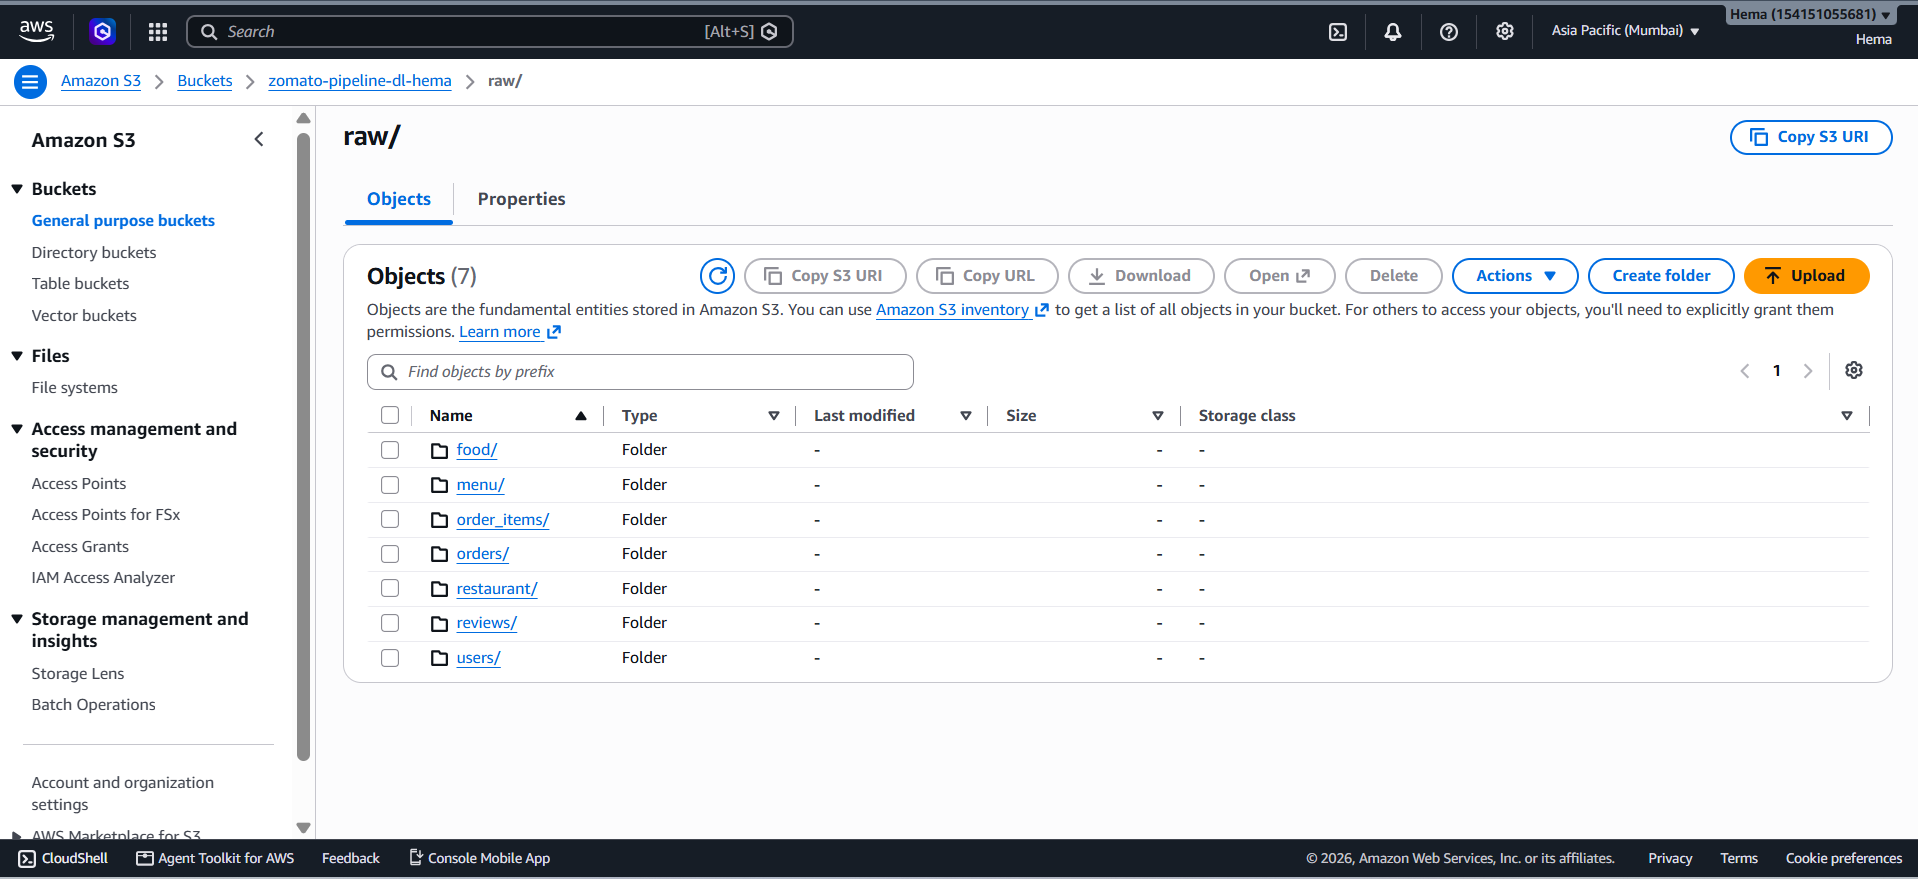
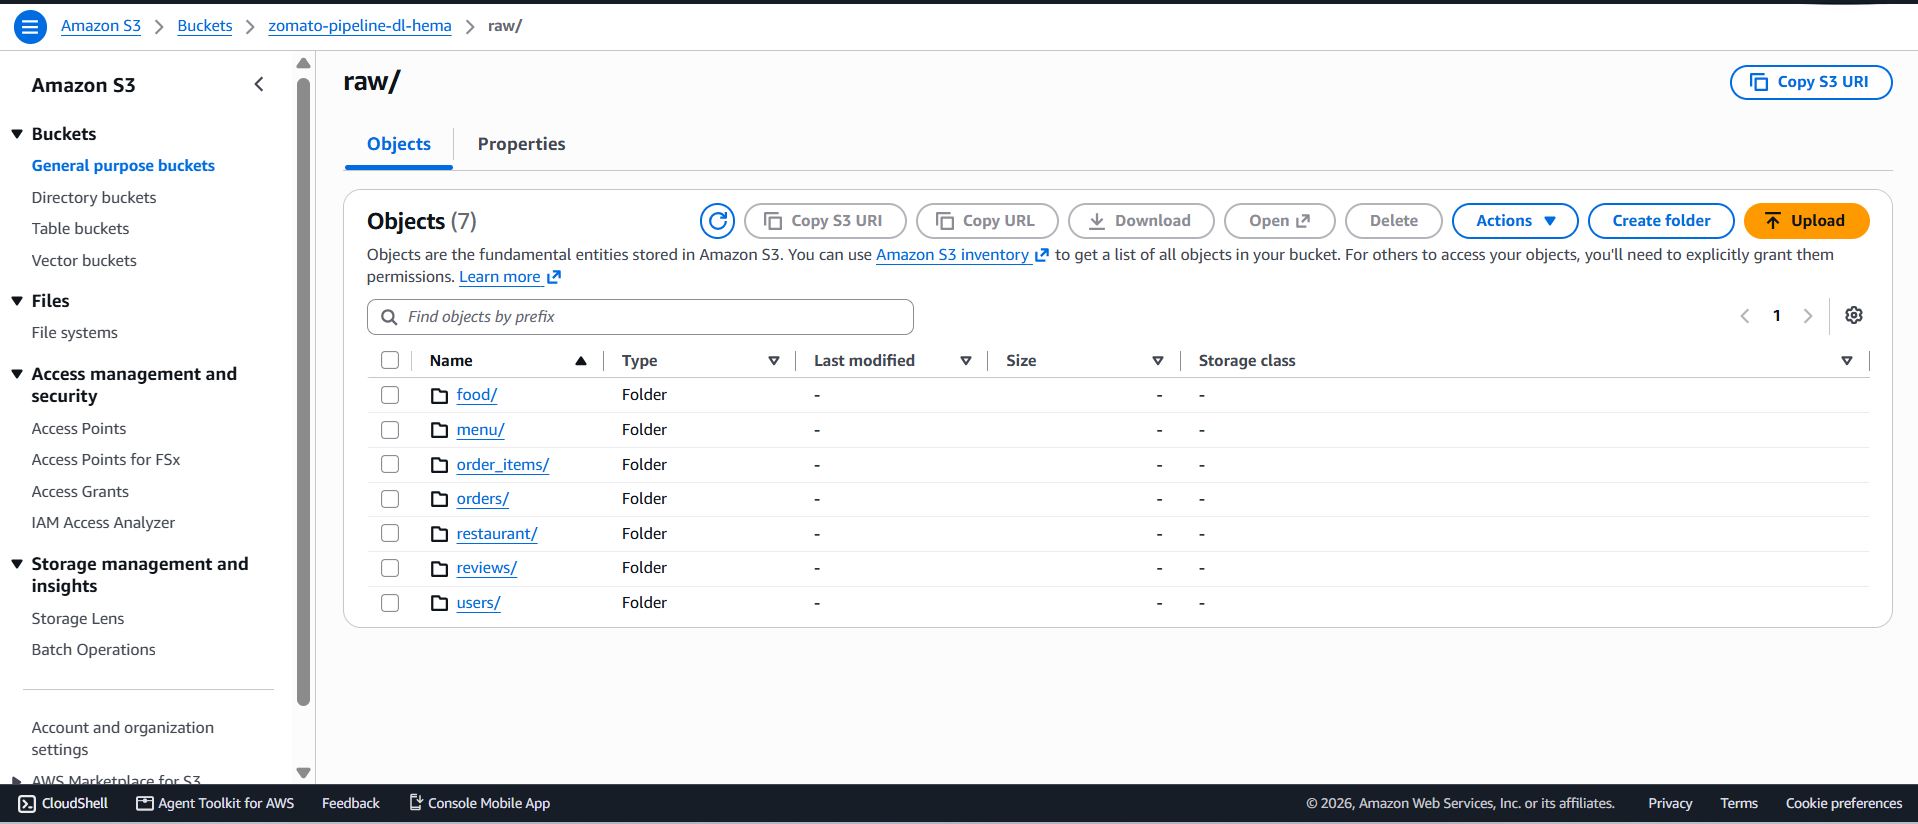
Updates the README.md file

diff --git a/README.md b/README.md
@@ -56,14 +56,58 @@ AI Analytics
 
 ---
 
-### ☁ Data Engineering
+## ☁ Data Engineering
 
-- AWS S3 for data storage
-- Snowflake as the cloud data warehouse
-- Raw, staging, AI, and marts layers
-- SQL-based transformations
-- Incremental data processing
-- Data quality testing with dbt
+The project uses **AWS S3** as the initial cloud storage and ingestion layer before
+loading the Zomato datasets into **Snowflake** for transformation, modeling, and analytics.
+
+### Data Flow
+
+```text
+Source Data
+    ↓
+AWS S3
+    ↓
+Snowflake RAW
+    ↓
+dbt Staging
+    ↓
+dbt Core
+    ↓
+Analytics Marts
+```
+
+### AWS S3 — Data Storage
+
+The raw Zomato datasets are stored in an AWS S3 bucket before being loaded into
+Snowflake for downstream processing.
+
+![AWS S3 Data Storage](images/AwsData.png)
+
+### Snowflake Data Warehouse
+
+After ingestion, the data is organized into logical layers within Snowflake:
+
+```text
+ZOMATO
+│
+├── RAW
+│   └── Raw source tables
+│
+├── STAGING
+│   └── Cleaned and standardized data
+│
+├── AI
+│   └── AI-enriched customer reviews
+│
+└── MARTS
+    └── Business-ready analytical models
+```
+
+![Customer Data in Snowflake](images/CustomerTable.png)
+
+This layered architecture separates **raw data, transformation logic, AI enrichment,
+and analytical datasets**, making the pipeline easier to maintain and extend.
 
 ---
 
